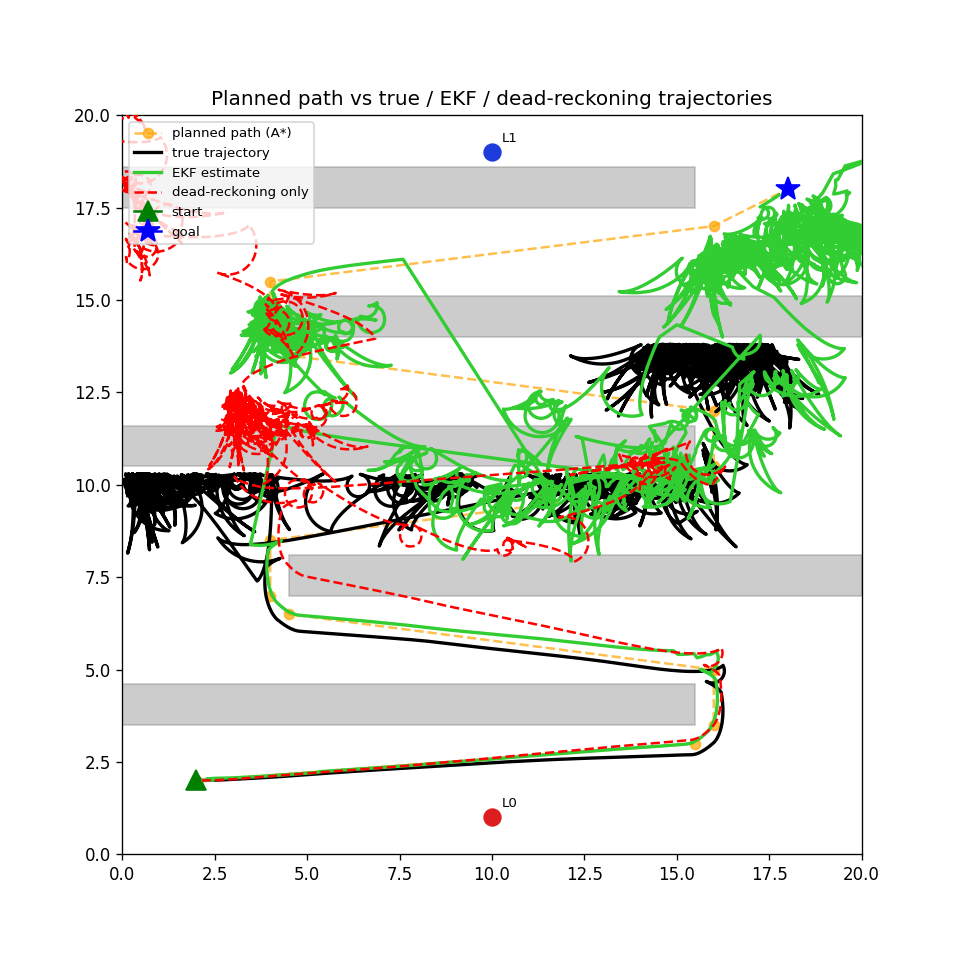
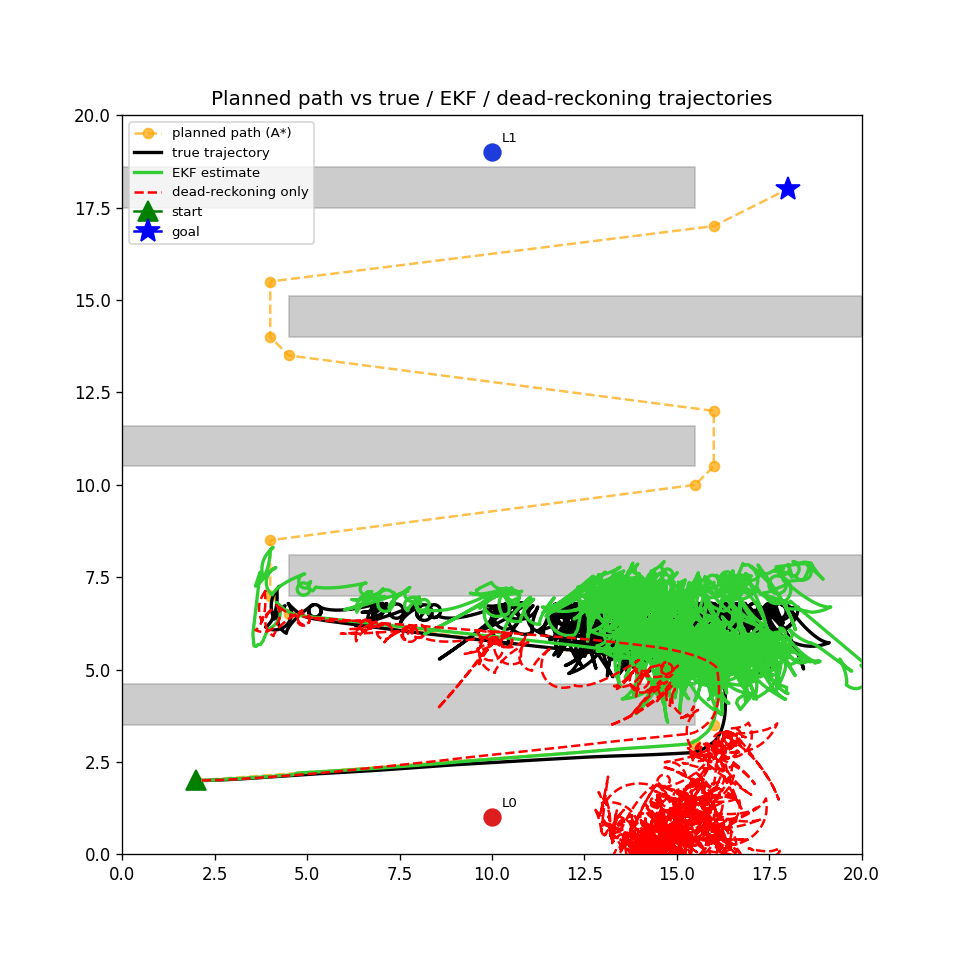
Fix robot drawn twice as big as its actual collision radius
ROBOT_DRAW_RADIUS was set to planner.ROBOT_RADIUS (0.4, a PLANNING safety
margin for A*), while simulate.py's actual physical collision check uses
ROBOT_PHYSICAL_RADIUS (0.2, the robot's real size, deliberately different from it). The
simulation was never letting the real collision boundary overlap a wall,
but the drawn circle was twice that size, so it visibly looked like the
robot was driving through walls in the animation even though it wasn't.
Drawing it at the actual enforced radius instead fixes the mismatch
between what's checked and what's shown.

diff --git a/python/visualize.py b/python/visualize.py
@@ -10,10 +10,10 @@ import numpy as np
 
 import environment as env
 import perception
-import planner
-from simulate import SimulationLog, run_simulation, scenario_from_argv, seed_from_argv
+from simulate import (SimulationLog, run_simulation, scenario_from_argv, seed_from_argv,
+                       ROBOT_PHYSICAL_RADIUS)
 
-ROBOT_DRAW_RADIUS = planner.ROBOT_RADIUS
+ROBOT_DRAW_RADIUS = ROBOT_PHYSICAL_RADIUS
 HEADING_ARROW_LENGTH = 0.7
 
 COVARIANCE_ELLIPSE_N_SIGMA = 2
